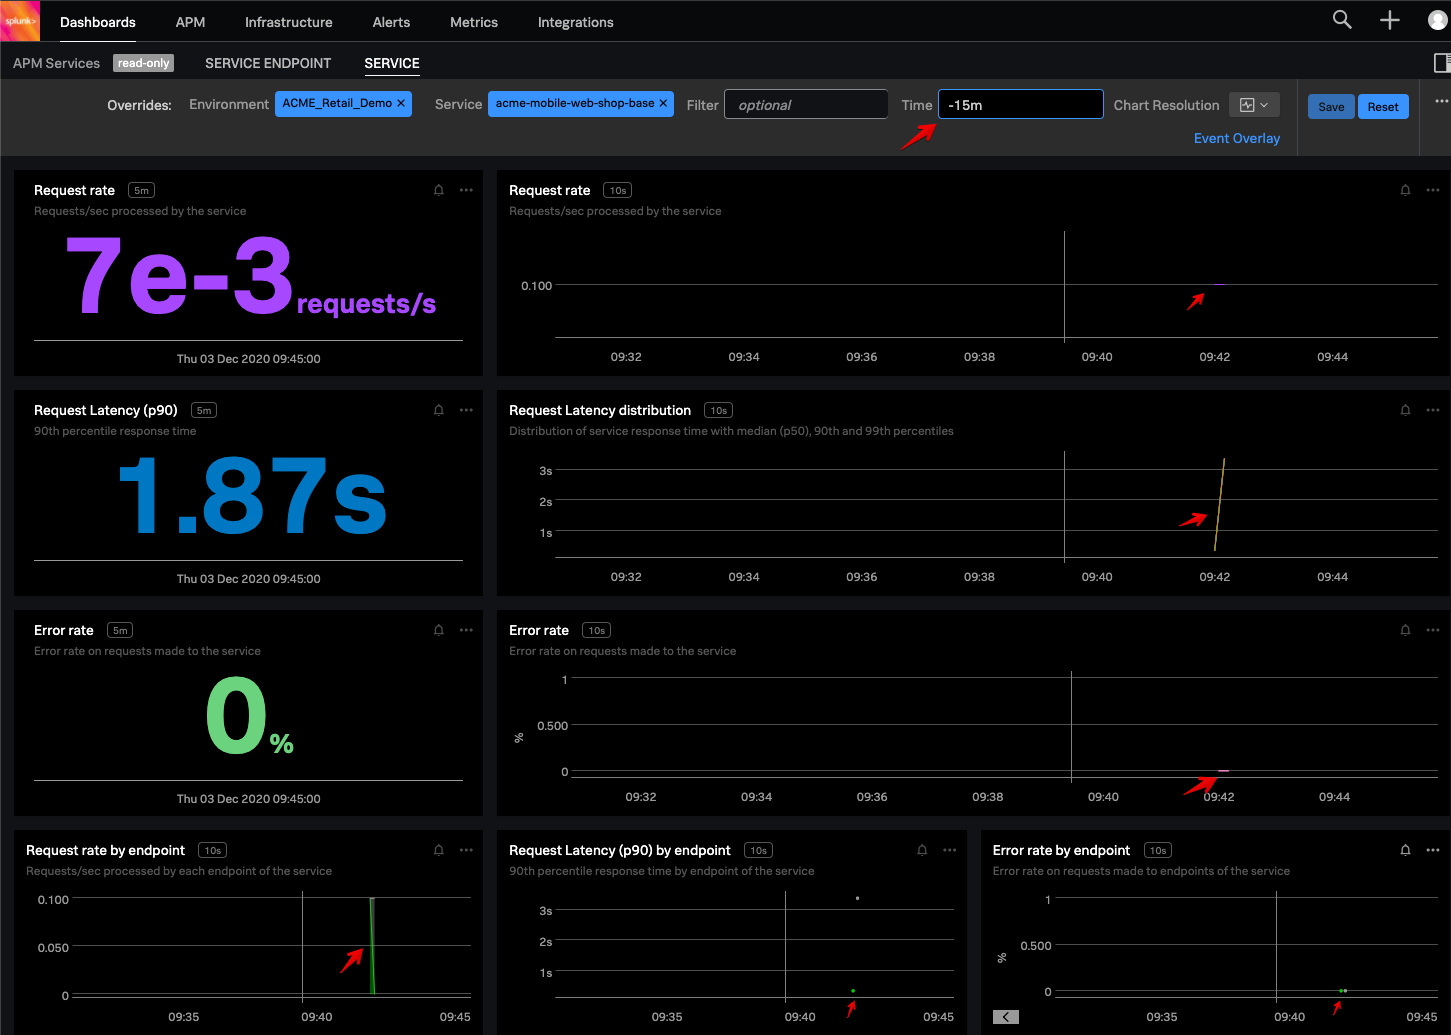
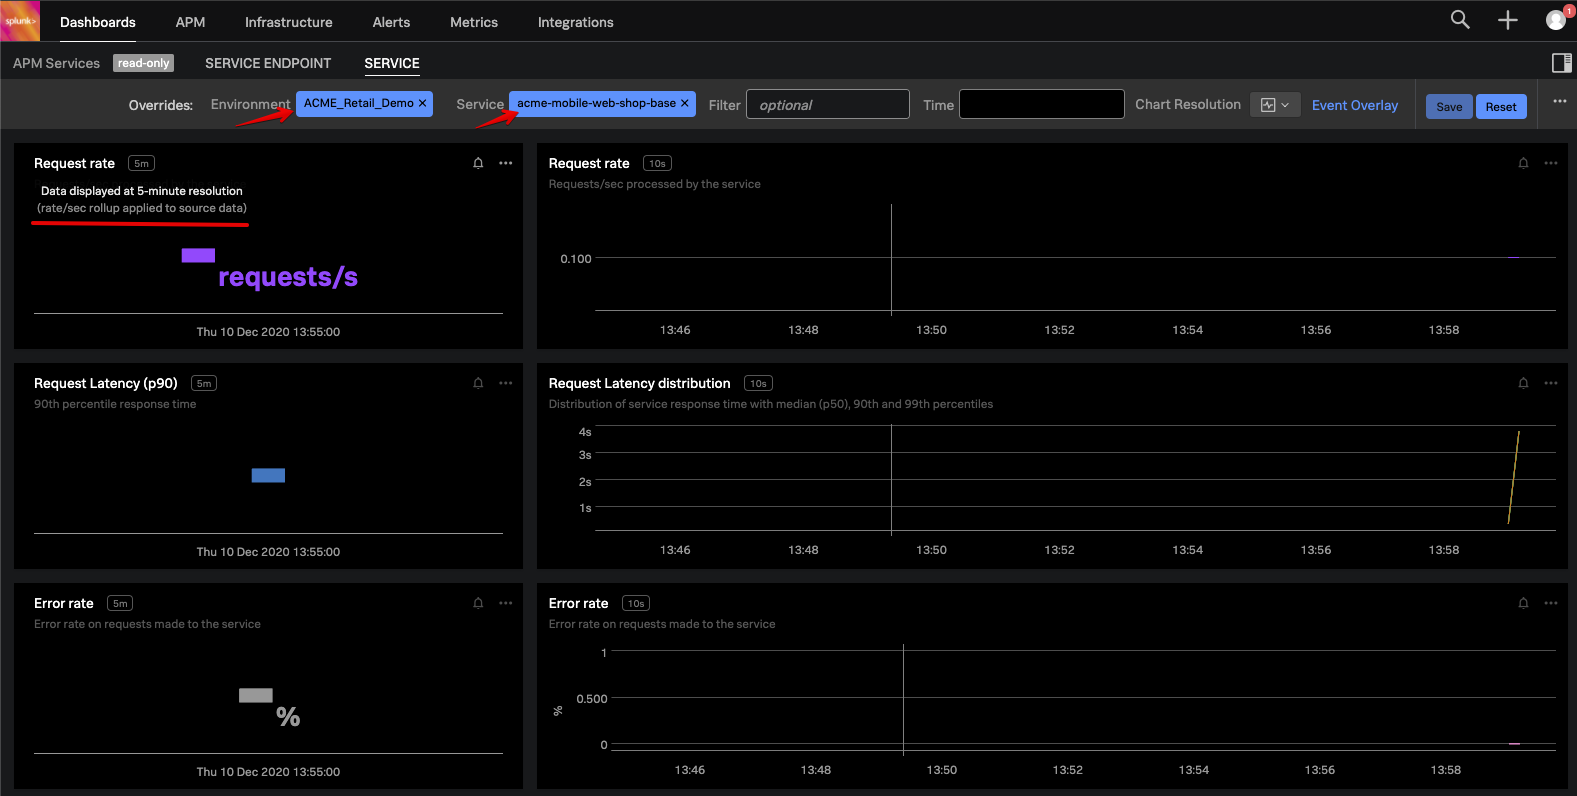
explain 5 mins

diff --git a/docs/lambda/springboot-apm-II.md b/docs/lambda/springboot-apm-II.md
@@ -38,7 +38,7 @@ From the Environment Drop down box select ***UID_*Retail_Demo**, from the Servic
 
 This wil give you the automatically generated service dashboard for ***uid*-mobile-web-shop-base**.
 
-If you set the time to -15 minutes you can see the single invocation, the averages over time will be filled in as well.
+If you set the time to -5 minutes you can see the single invocation, the averages over time on the left side will become active after a few minutes.
 
 ![apm-dashboard-3](../images/lambda/springboot-apm/Dashboard-Service 3.png){: .zoom}
 
